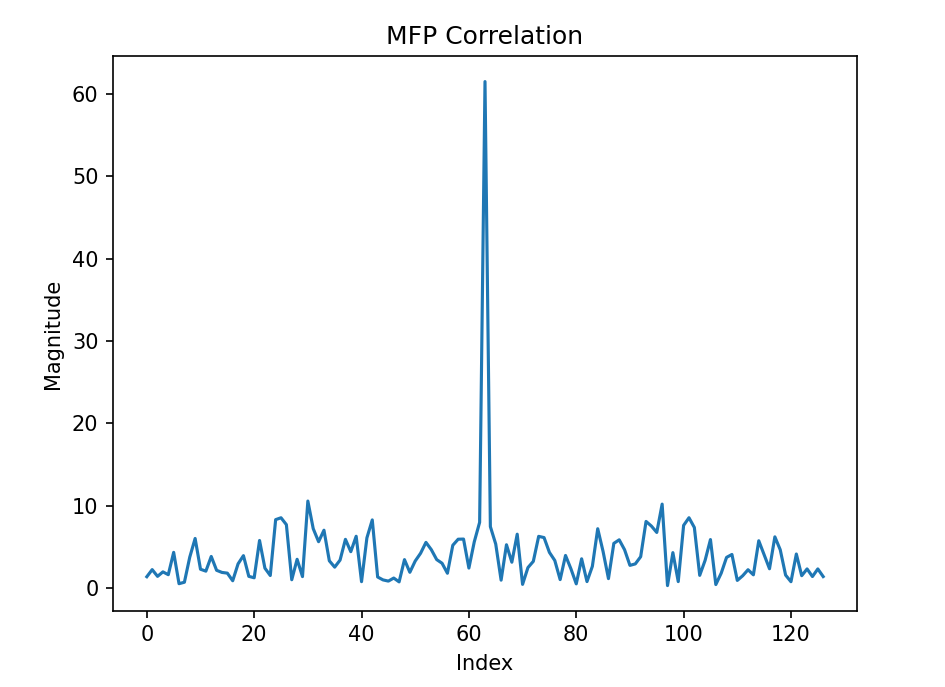
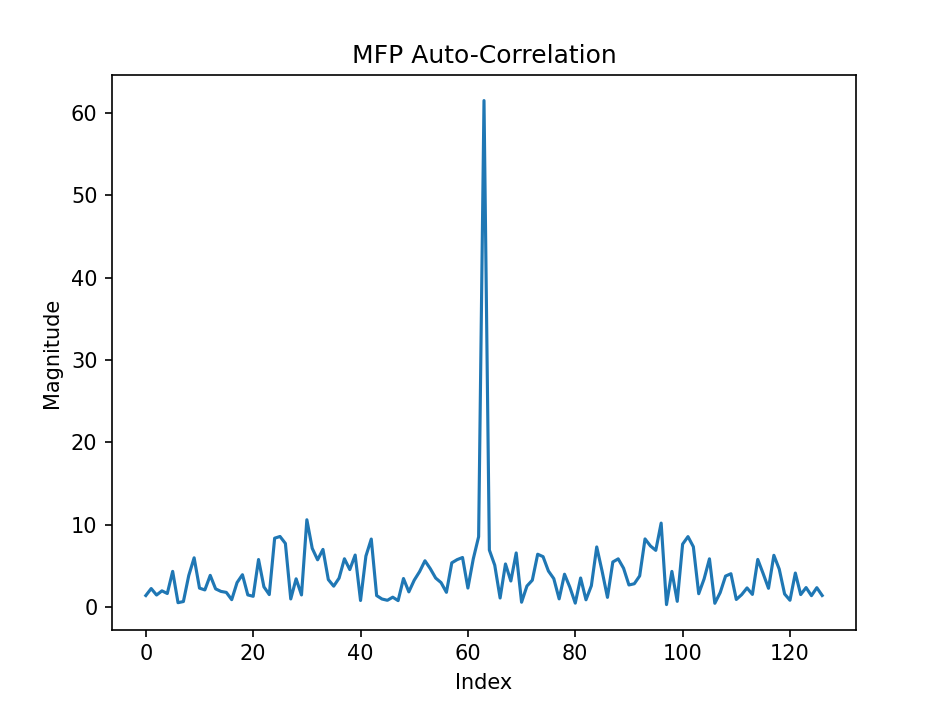
Adding some constellation plots

diff --git a/latex/final_report.tex b/latex/final_report.tex
@@ -108,8 +108,18 @@ The patents we referenced did not provide the MFP or FSP. As a result, we identi
 	\label{fig::fsp_correlation}
 \end{figure}
 
-cross-correlated the signal with delayed versions of itself. When the cross-correlation output peaked, we selected the preamble-length set of samples that resulted in a peak as the preamble. We also demodulated the signal using BPSK demodulation to reconstruct the original preamble. The maximum cross-correlation output when identifying the master frame preamble is shown in Figure \ref{fig::mfp_correlation}.\\
+We can also examine some of the properties of the FSP by looking at its constellation. In Figure \ref{fig::fsp_constellation}, we show the constellation of the FSP symbols and data symbols.
 
+\begin{figure}[H]
+	\centerline{\fbox{\includegraphics[width=0.5\textwidth]{fsp_constellation.png}}}
+	\caption{Constellation of FSP Symbols vs Data Symbols}
+	\label{fig::fsp_constellation}
+\end{figure}
+
+Examining the figure, we see that the FSP uses bi-phase modulation (phase-shifted BPSK) instead of QPSK modulation like the proceeding signals. To 
+improve our correlation performance going forward, we demodulate each of the FSP constellation points. Note that our results are ambiguous by $180^{\circ}$, so we assume a leading 1 in the FSPs. Errors reported by the Reed Solomon decoder (when implemented) can be used to resolve this ambiguity. If we receive high error counts, we know to rotate the phase of our FSP by $180^{\circ}$.
+
+We can perform a similar procedure to identify the MFP. However, to avoid false alarms from our FSP, we take advantage of the MFP located illustrated in Figure \ref{fig::tdm_frame_format}. We specifically know that the MFP will always be located right before the FSP. Therefore, we consider only MFP positions right before the FSP as illustrated in Figure \ref{fig::finding_mfp}.
 
 \begin{figure}[H]
 	\centerline{\fbox{\includegraphics[width=0.5\textwidth]{finding_mfp.png}}}
@@ -117,13 +127,22 @@ cross-correlated the signal with delayed versions of itself. When the cross-corr
 	\label{fig::finding_mfp}
 \end{figure}
 
-
+The base case auto-correlation provides the location of the MFP. For our data, the best case auto-correlation is shown in Figure \ref{fig::mfp_correlation} and the resulting constellation is shown in Figure \ref{fig::mfp_constellation}.
 
 \begin{figure}[H]
 	\centerline{\fbox{\includegraphics[width=0.5\textwidth]{mfp_correlation.png}}}
-	\caption{Finding the MFP using Cross Correlation}
+	\caption{Auto-Correlation of Optimum MFP Selection}
 	\label{fig::mfp_correlation}
 \end{figure}
+
+\begin{figure}[H]
+	\centerline{\fbox{\includegraphics[width=0.5\textwidth]{mfp_constellation.png}}}
+	\caption{Constellation of MFP Symbols vs Data Symbols}
+	\label{fig::mfp_constellation}
+\end{figure}
+
+Examining the constellation, we see that the MFP is also bi-phase. To 
+improve our correlation performance going forward, we demodulate each of the MFP constellation points. Note that our results are ambiguous by $180^{\circ}$ as described above. For now we assume a leading 1 in the MFPs.
 
 % Add plot of FSP in constellation w/ different color
 

diff --git a/code/XM_find_MFP.py b/code/XM_find_MFP.py
@@ -82,3 +82,18 @@ print ("last index = ", idx)
 print ("mfp index = ", mfp_index)
 print ("LIKELY MFP ")
 print (1*(data_array[mfp_index:mfp_index+XM.MFP_symbols]>0))
+
+# Plot constellation
+preamble_symbols = data_array[mfp_index:mfp_index+step]
+data_start = mfp_index + step + XM.FSP_symbols
+data_end = data_start + XM.data_symbols
+data_symbols = data_array[data_start:data_end]
+plt.clf()
+plt.scatter(np.real(data_symbols), np.imag(data_symbols))
+plt.scatter(np.real(preamble_symbols), np.imag(preamble_symbols))
+plt.xlabel('In-phase')
+plt.ylabel('Quadrature')
+plt.title('Constellation')
+plt.legend(['Data Symbols', 'MFP Symbols'], loc='lower right')
+plt.show()
+print ("DONE")
